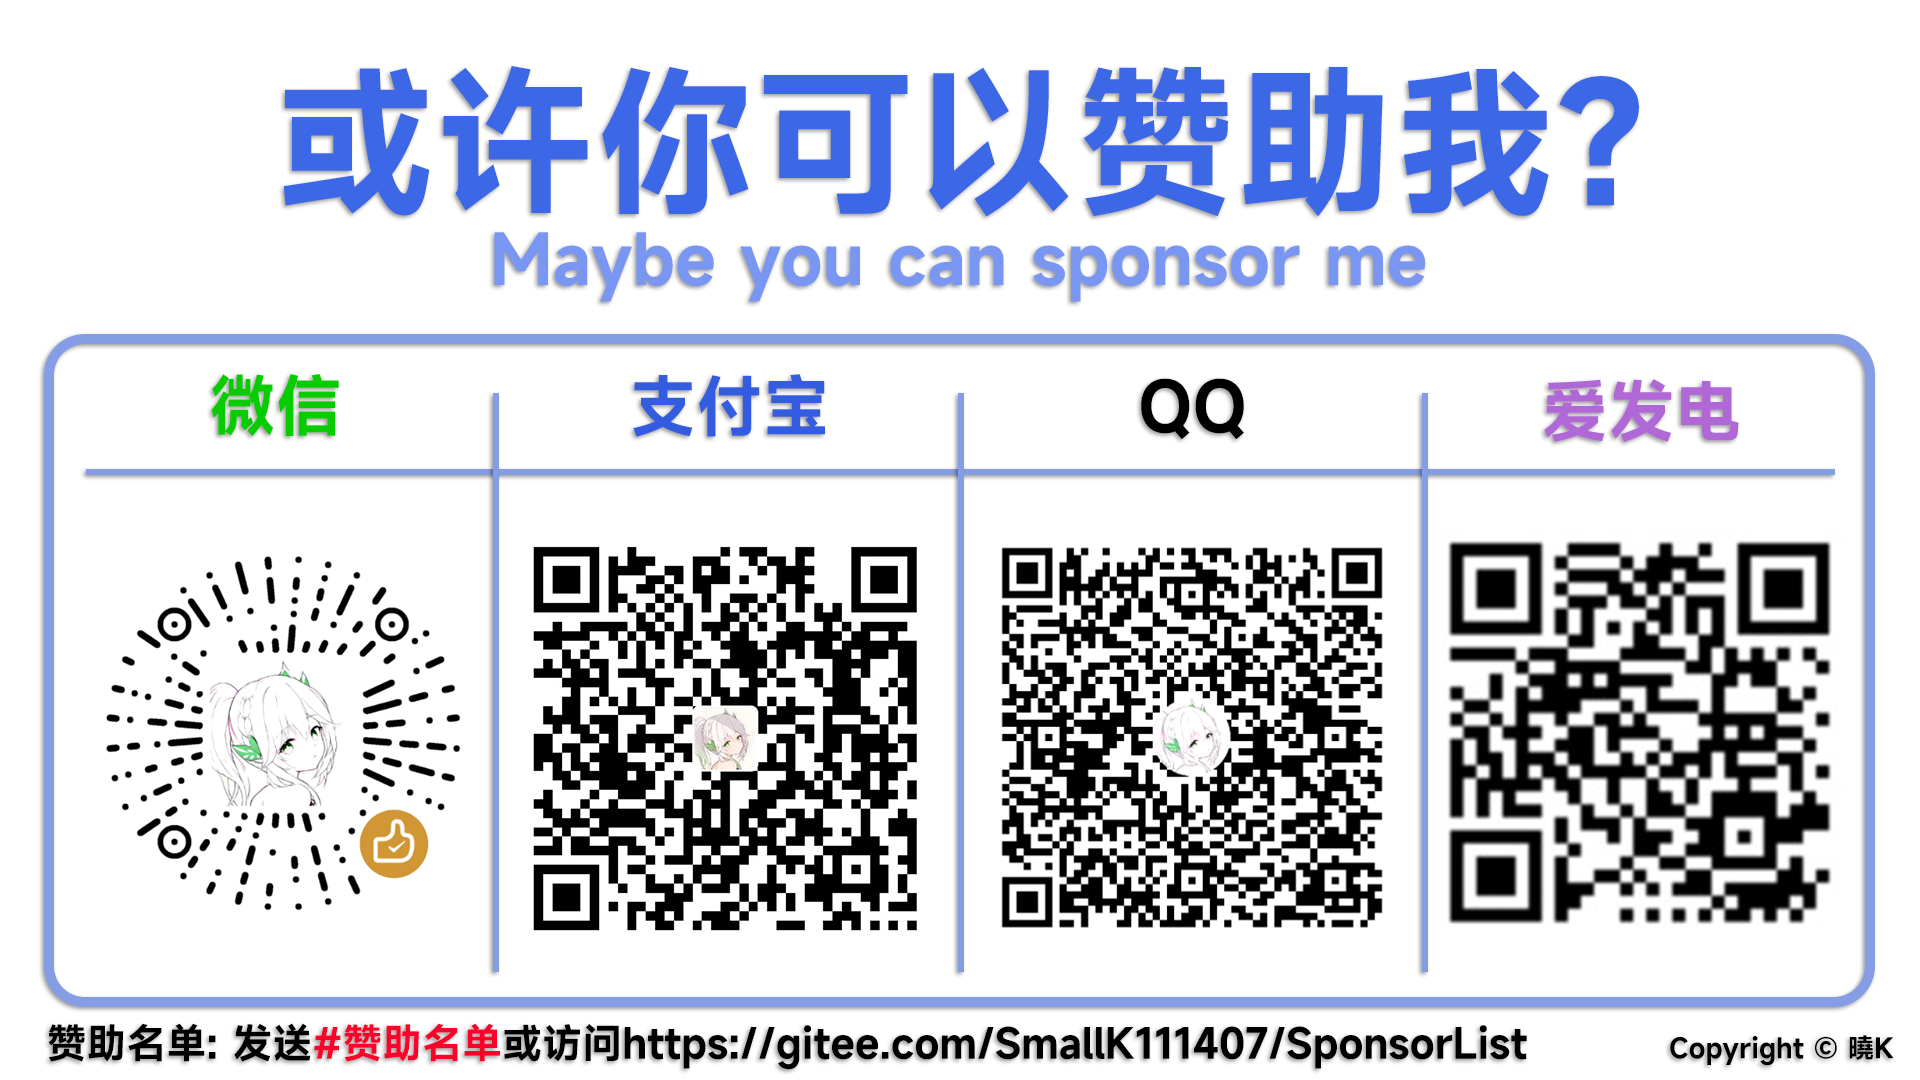
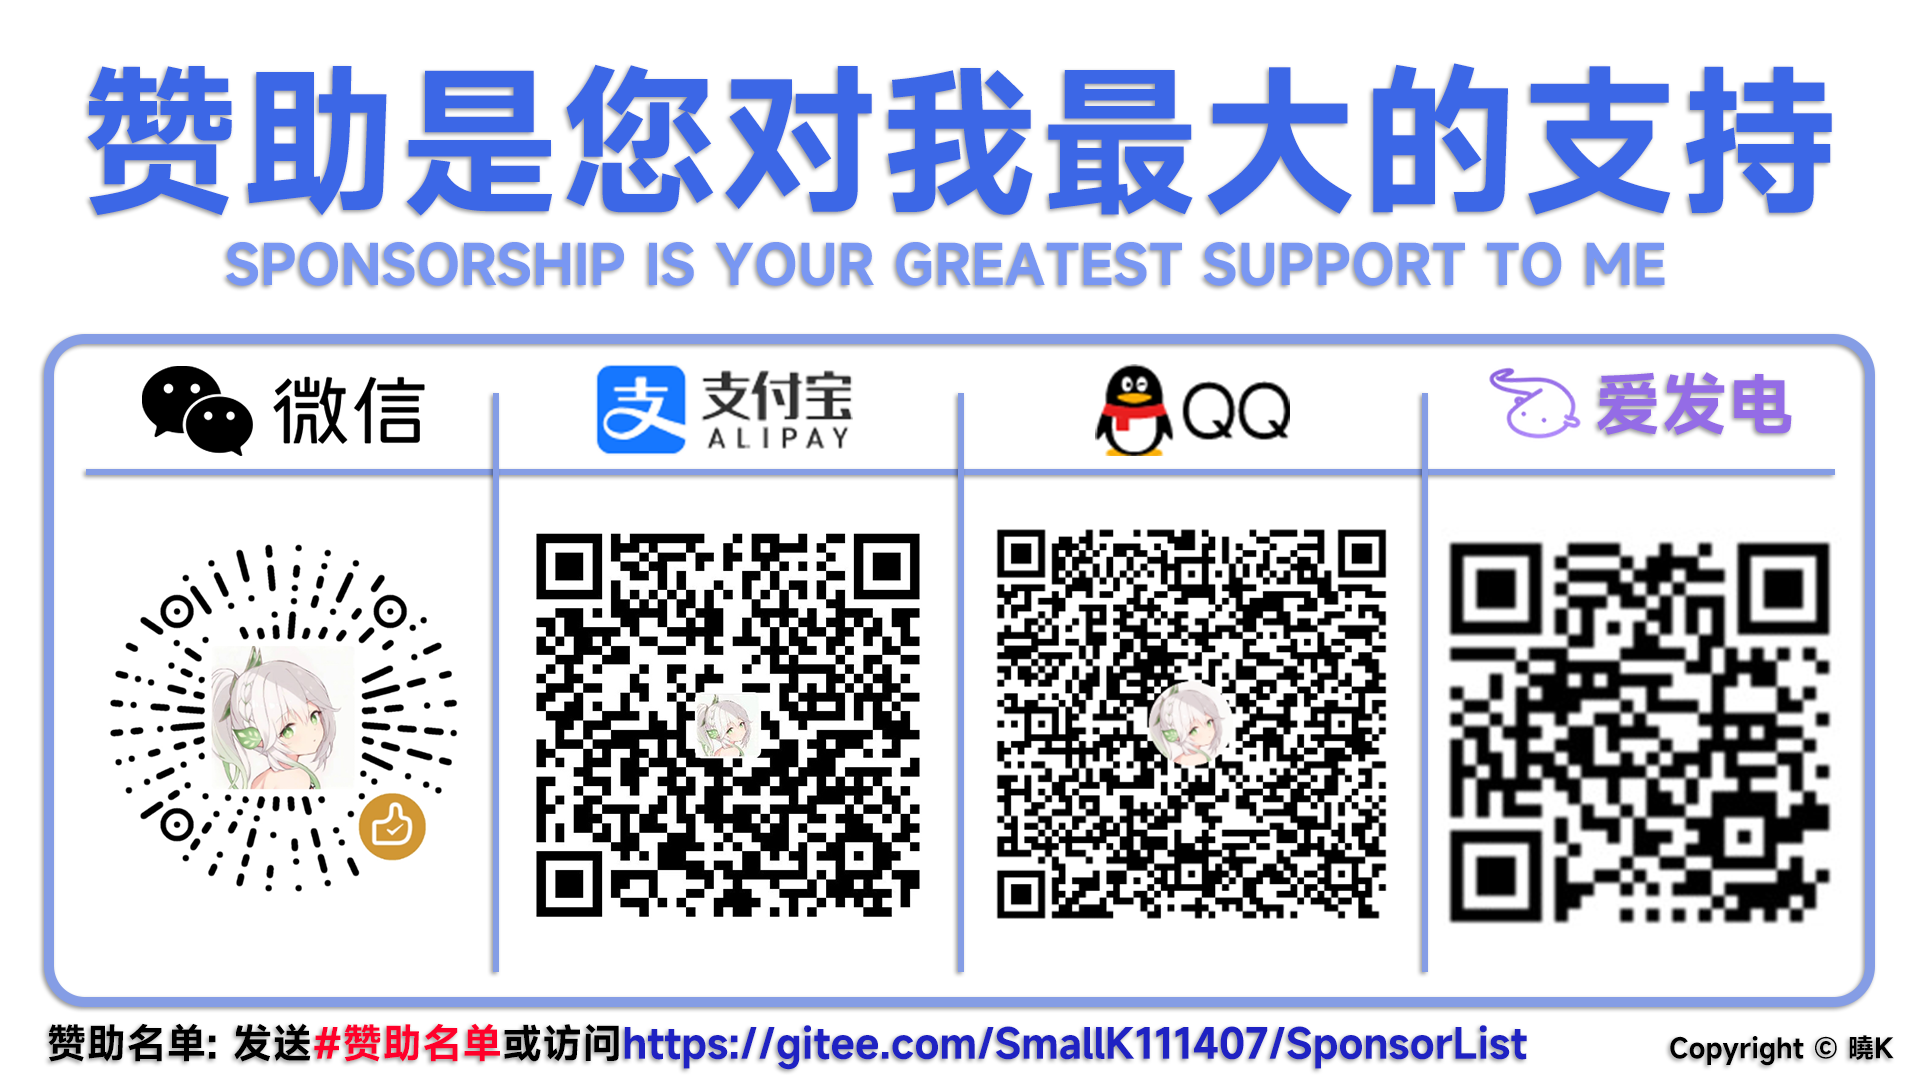
new image

diff --git a/apps/sponsor.js b/apps/sponsor.js
@@ -15,7 +15,7 @@ export class sponsor extends plugin {
           fnc: "sponsorList"
         },
         {
-          reg: "^#?(我要|我想)?(赞助|资助|zz)(英|英语)?$",
+          reg: "^#?(我要|我想)?(赞助|资助|zz)(旧|旧版)?(英|英语)?$",
           fnc: "sponsorImage"
         }
       ]
@@ -35,8 +35,11 @@ export class sponsor extends plugin {
     await this.reply(img, true)
   }
   async sponsorImage() {
-    if (this.e.msg.includes("英")) {
-      await this.e.reply(segment.image(`${_path}/plugins/SponsorList/resources/image/sponsor_en.png`), false, { recallMsg: 90 })
+    if (this.e.msg.includes("英") || (this.e.msg.includes("英") && this.e.msg.includes("旧"))) {
+      await this.e.reply(segment.image(`${_path}/plugins/SponsorList/resources/image/sponsor_old_en.png`), false, { recallMsg: 90 })
+      return true
+    } else if (this.e.msg.includes("旧")) {
+      await this.e.reply(segment.image(`${_path}/plugins/SponsorList/resources/image/sponsor_old.png`), false, { recallMsg: 90 })
       return true
     } else {
       await this.e.reply(segment.image(`${_path}/plugins/SponsorList/resources/image/sponsor.png`), false, { recallMsg: 90 })
